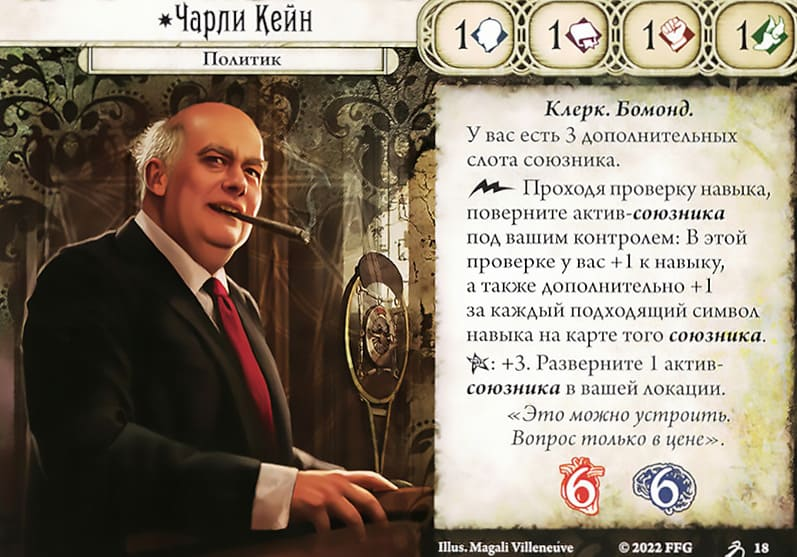
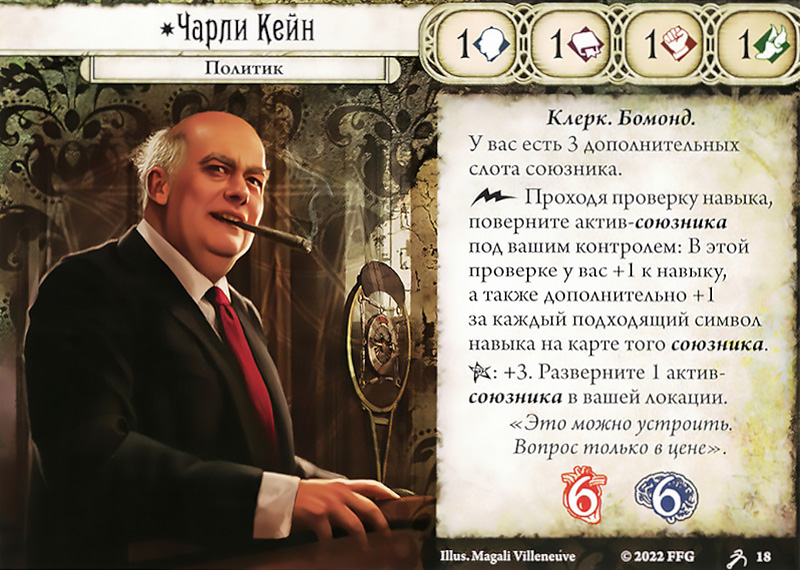
Анимация появления карты - добавлена прозрачность

diff --git a/main.js b/main.js
@@ -9,8 +9,8 @@ async function getData() {
   <div id="closeBtn" class="close-btn"></div>
 <div class="scene scene--card">
   <div id="card" class="card">
-    <div class="card__face card__face--front"><img src="${randomItem.img}" class="investigator"></div>
-    <div class="card__face card__face--back"><img src="${randomItem.img_back}" class="investigator"></div>
+    <div class="card__face card__face--front"><img src="${randomItem.img}" class="investigator opacity"></div>
+    <div class="card__face card__face--back"><img src="${randomItem.img_back}" class="investigator opacity"></div>
     </div>
 </div>
   `;

diff --git a/main.css b/main.css
@@ -98,6 +98,21 @@ body {
   box-shadow: 0px 8px 10px 2px rgba(44, 44, 44, 0.5);
 }
 
+.opacity {
+  opacity: 0;
+  animation: ani 1s forwards;
+}
+
+@keyframes ani {
+  0% {
+    opacity: 0;
+  }
+
+  100% {
+    opacity: 1;
+  }
+}
+
 .container {
   position: relative;
 }
